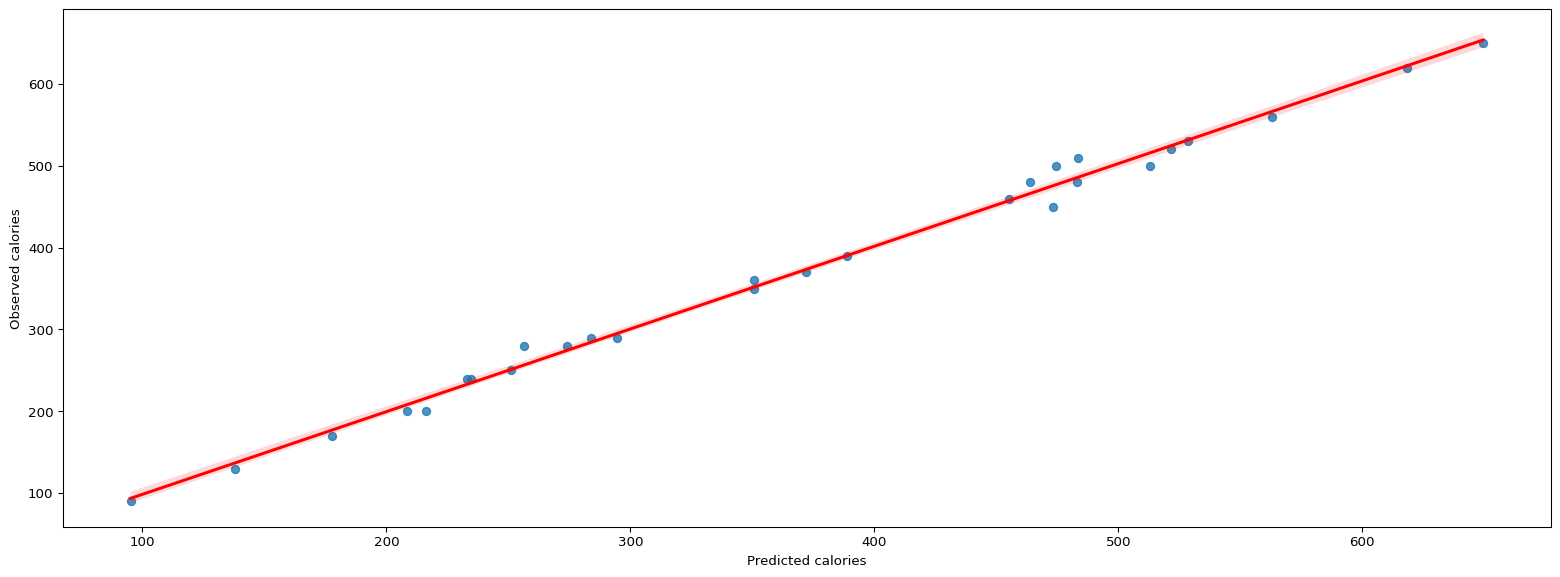
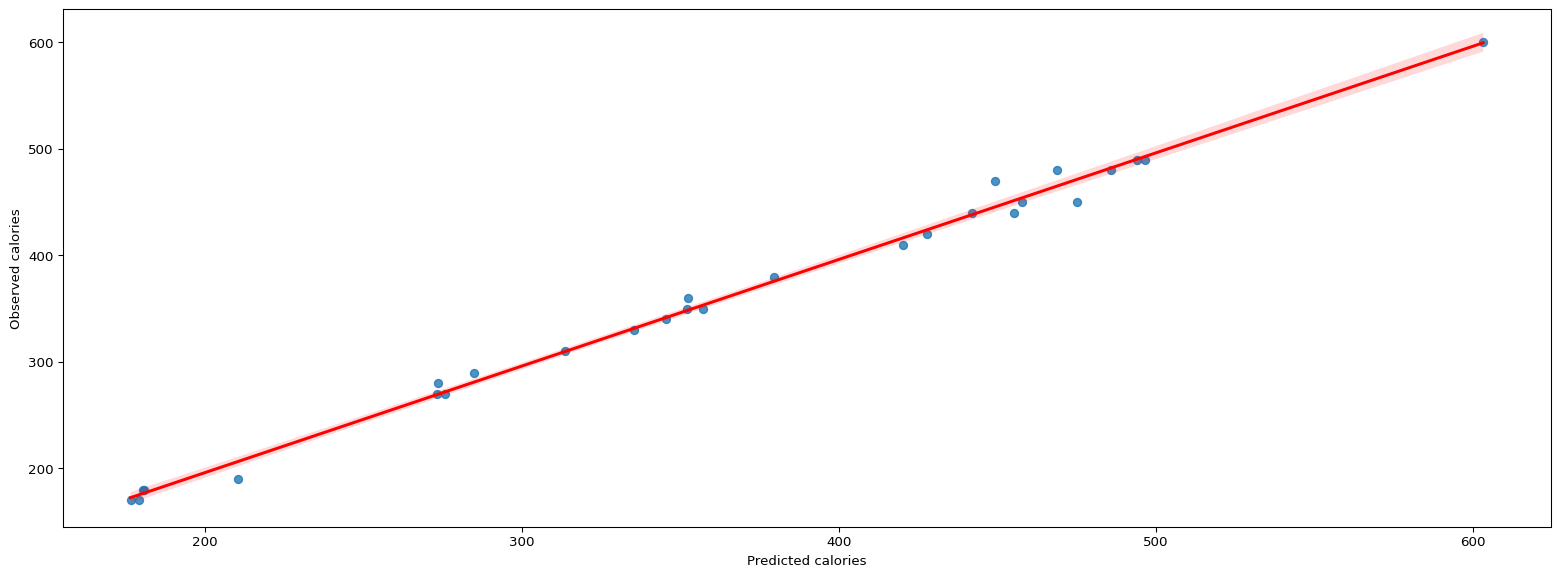
Updates

diff --git a/docs/posts.html b/docs/posts.html
@@ -201,7 +201,7 @@ window.Quarto = {
 <!-- margin-sidebar -->
     <div id="quarto-margin-sidebar" class="sidebar margin-sidebar">
         
-    <h5 class="quarto-listing-category-title">Categories</h5><div class="quarto-listing-category category-default"><div class="category" data-category="">All <span class="quarto-category-count">(9)</span></div><div class="category" data-category="analysis">analysis <span class="quarto-category-count">(6)</span></div><div class="category" data-category="python">python <span class="quarto-category-count">(1)</span></div></div></div>
+    <h5 class="quarto-listing-category-title">Categories</h5><div class="quarto-listing-category category-default"><div class="category" data-category="">All <span class="quarto-category-count">(6)</span></div><div class="category" data-category="R">R <span class="quarto-category-count">(3)</span></div><div class="category" data-category="analysis">analysis <span class="quarto-category-count">(6)</span></div><div class="category" data-category="python">python <span class="quarto-category-count">(1)</span></div></div></div>
 <!-- main -->
 <main class="content column-page-left" id="quarto-document-content">
 
@@ -231,73 +231,7 @@ window.Quarto = {
 
 <div class="quarto-listing quarto-listing-container-default" id="listing-listing">
 <div class="list quarto-listing-default">
-<div class="quarto-post image-right" data-index="0" data-listing-file-modified-sort="1746836361441" data-listing-reading-time-sort="1" data-listing-word-count-sort="52">
-<div class="thumbnail">
-<p><a href="./posts/stpy/index.html" class="no-external"></a></p><a href="./posts/stpy/index.html" class="no-external">
-<p class="card-img-top"><img src="posts\stpy\index_files\figure-html\fig-polar-output-1.png"  class="thumbnail-image card-img"/></p>
-</a><p><a href="./posts/stpy/index.html" class="no-external"></a></p>
-</div>
-<div class="body">
-<h3 class="no-anchor listing-title">
-<a href="./posts/stpy/index.html" class="no-external">matplotlib demo</a>
-</h3>
-<div class="listing-subtitle">
-<a href="./posts/stpy/index.html" class="no-external"></a>
-</div>
-<div class="listing-description">
-<a href="./posts/stpy/index.html" class="no-external">For a demonstration of a line plot on a polar axis, see Figure&nbsp;1.</a>
-</div>
-</div>
-<div class="metadata">
-<p><a href="./posts/stpy/index.html" class="no-external"></a></p><a href="./posts/stpy/index.html" class="no-external">
-</a>
-</div>
-</div>
-<div class="quarto-post image-right" data-index="1" data-listing-file-modified-sort="1746836986684" data-listing-reading-time-sort="1" data-listing-word-count-sort="8">
-<div class="thumbnail">
-<p><a href="./posts/test/index.html" class="no-external"></a></p><a href="./posts/test/index.html" class="no-external">
-<div class="listing-item-img-placeholder card-img-top" >&nbsp;</div>
-</a><p><a href="./posts/test/index.html" class="no-external"></a></p>
-</div>
-<div class="body">
-<h3 class="no-anchor listing-title">
-<a href="./posts/test/index.html" class="no-external">check env</a>
-</h3>
-<div class="listing-subtitle">
-<a href="./posts/test/index.html" class="no-external"></a>
-</div>
-<div class="listing-description">
-<a href="./posts/test/index.html" class="no-external"><code>QUARTO_PYTHON</code> is set to <strong>?env:QUARTO_PYTHON</strong></a>
-</div>
-</div>
-<div class="metadata">
-<p><a href="./posts/test/index.html" class="no-external"></a></p><a href="./posts/test/index.html" class="no-external">
-</a>
-</div>
-</div>
-<div class="quarto-post image-right" data-index="2" data-listing-file-modified-sort="1746836849983" data-listing-reading-time-sort="1" data-listing-word-count-sort="28">
-<div class="thumbnail">
-<p><a href="./posts/test/test.html" class="no-external"></a></p><a href="./posts/test/test.html" class="no-external">
-<p class="card-img-top"><img src="posts\test\test_files\figure-html\unnamed-chunk-1-1.png"  class="thumbnail-image card-img"/></p>
-</a><p><a href="./posts/test/test.html" class="no-external"></a></p>
-</div>
-<div class="body">
-<h3 class="no-anchor listing-title">
-<a href="./posts/test/test.html" class="no-external">Reproducible Quarto Document</a>
-</h3>
-<div class="listing-subtitle">
-<a href="./posts/test/test.html" class="no-external"></a>
-</div>
-<div class="listing-description">
-<a href="./posts/test/test.html" class="no-external">This is a reproducible Quarto document using <code>format: html</code>. It is written in Markdown and contains embedded R code. When you run the code, it will produce a plot.</a>
-</div>
-</div>
-<div class="metadata">
-<p><a href="./posts/test/test.html" class="no-external"></a></p><a href="./posts/test/test.html" class="no-external">
-</a>
-</div>
-</div>
-<div class="quarto-post image-right" data-index="3" data-categories="analysis" data-listing-date-sort="1746075600000" data-listing-file-modified-sort="1746627669414" data-listing-date-modified-sort="NaN" data-listing-reading-time-sort="4" data-listing-word-count-sort="749">
+<div class="quarto-post image-right" data-index="0" data-categories="analysis,R" data-listing-date-sort="1746075600000" data-listing-file-modified-sort="1746840956745" data-listing-date-modified-sort="NaN" data-listing-reading-time-sort="4" data-listing-word-count-sort="748">
 <div class="thumbnail">
 <p><a href="./posts/starbucks_food/index.html" class="no-external"></a></p><a href="./posts/starbucks_food/index.html" class="no-external">
 <p><img loading="lazy" src="./posts/starbucks_food/starbucks_food.jpg" class="thumbnail-image"></p>
@@ -313,6 +247,9 @@ window.Quarto = {
 <div class="listing-categories">
 <div class="listing-category" onclick="window.quartoListingCategory('analysis'); return false;">
 analysis
+</div>
+<div class="listing-category" onclick="window.quartoListingCategory('R'); return false;">
+R
 </div>
 </div>
 <div class="listing-description">
@@ -330,7 +267,7 @@ Aditya Ranade
 </a>
 </div>
 </div>
-<div class="quarto-post image-right" data-index="4" data-categories="analysis,python" data-listing-date-sort="1746075600000" data-listing-file-modified-sort="1746840929689" data-listing-date-modified-sort="NaN" data-listing-reading-time-sort="4" data-listing-word-count-sort="642">
+<div class="quarto-post image-right" data-index="1" data-categories="analysis,python" data-listing-date-sort="1746075600000" data-listing-file-modified-sort="1746841793305" data-listing-date-modified-sort="NaN" data-listing-reading-time-sort="4" data-listing-word-count-sort="642">
 <div class="thumbnail">
 <p><a href="./posts/starbucks_food_python/index.html" class="no-external"></a></p><a href="./posts/starbucks_food_python/index.html" class="no-external">
 <p><img loading="lazy" src="./posts/starbucks_food_python/starbucks_food.jpg" class="thumbnail-image"></p>
@@ -366,7 +303,7 @@ Aditya Ranade
 </a>
 </div>
 </div>
-<div class="quarto-post image-right" data-index="5" data-categories="analysis" data-listing-date-sort="1745384400000" data-listing-file-modified-sort="1746627788596" data-listing-date-modified-sort="NaN" data-listing-reading-time-sort="5" data-listing-word-count-sort="971">
+<div class="quarto-post image-right" data-index="2" data-categories="analysis,R" data-listing-date-sort="1745384400000" data-listing-file-modified-sort="1746840969222" data-listing-date-modified-sort="NaN" data-listing-reading-time-sort="5" data-listing-word-count-sort="971">
 <div class="thumbnail">
 <p><a href="./posts/starbucks/index.html" class="no-external"></a></p><a href="./posts/starbucks/index.html" class="no-external">
 <p><img loading="lazy" src="./posts/starbucks/starbucks_beverages.jpg" class="thumbnail-image"></p>
@@ -382,6 +319,9 @@ Aditya Ranade
 <div class="listing-categories">
 <div class="listing-category" onclick="window.quartoListingCategory('analysis'); return false;">
 analysis
+</div>
+<div class="listing-category" onclick="window.quartoListingCategory('R'); return false;">
+R
 </div>
 </div>
 <div class="listing-description">
@@ -399,7 +339,7 @@ Aditya Ranade
 </a>
 </div>
 </div>
-<div class="quarto-post image-right" data-index="6" data-categories="analysis" data-listing-date-sort="1709272800000" data-listing-file-modified-sort="1738680521205" data-listing-date-modified-sort="NaN" data-listing-reading-time-sort="5" data-listing-word-count-sort="899">
+<div class="quarto-post image-right" data-index="3" data-categories="analysis,R" data-listing-date-sort="1709272800000" data-listing-file-modified-sort="1746840982006" data-listing-date-modified-sort="NaN" data-listing-reading-time-sort="5" data-listing-word-count-sort="899">
 <div class="thumbnail">
 <p><a href="./posts/cherry_blossom_prediction/index.html" class="no-external"></a></p><a href="./posts/cherry_blossom_prediction/index.html" class="no-external">
 <p><img loading="lazy" src="./posts/cherry_blossom_prediction/cherry_blossom.jpg" class="thumbnail-image"></p>
@@ -415,6 +355,9 @@ Aditya Ranade
 <div class="listing-categories">
 <div class="listing-category" onclick="window.quartoListingCategory('analysis'); return false;">
 analysis
+</div>
+<div class="listing-category" onclick="window.quartoListingCategory('R'); return false;">
+R
 </div>
 </div>
 <div class="listing-description">
@@ -432,7 +375,7 @@ Aditya Ranade
 </a>
 </div>
 </div>
-<div class="quarto-post image-right" data-index="7" data-categories="analysis" data-listing-date-sort="1668060000000" data-listing-file-modified-sort="1710368953619" data-listing-date-modified-sort="NaN" data-listing-reading-time-sort="6" data-listing-word-count-sort="1063">
+<div class="quarto-post image-right" data-index="4" data-categories="analysis" data-listing-date-sort="1668060000000" data-listing-file-modified-sort="1710368953619" data-listing-date-modified-sort="NaN" data-listing-reading-time-sort="6" data-listing-word-count-sort="1063">
 <div class="thumbnail">
 <p><a href="./posts/ipl_best_team/index.html" class="no-external"></a></p><a href="./posts/ipl_best_team/index.html" class="no-external">
 <p><img loading="lazy" src="./posts/ipl_best_team/ipl_playoff_structure.png" class="thumbnail-image"></p>
@@ -465,7 +408,7 @@ Aditya Ranade
 </a>
 </div>
 </div>
-<div class="quarto-post image-right" data-index="8" data-categories="analysis" data-listing-date-sort="1667106000000" data-listing-file-modified-sort="1710368970678" data-listing-date-modified-sort="NaN" data-listing-reading-time-sort="6" data-listing-word-count-sort="1148">
+<div class="quarto-post image-right" data-index="5" data-categories="analysis" data-listing-date-sort="1667106000000" data-listing-file-modified-sort="1710368970678" data-listing-date-modified-sort="NaN" data-listing-reading-time-sort="6" data-listing-word-count-sort="1148">
 <div class="thumbnail">
 <p><a href="./posts/fab4/index.html" class="no-external"></a></p><a href="./posts/fab4/index.html" class="no-external">
 <p><img loading="lazy" src="./posts/fab4/table.png" class="thumbnail-image"></p>

diff --git a/docs/posts/starbucks_food_python/index.html b/docs/posts/starbucks_food_python/index.html
@@ -112,7 +112,10 @@ gtag('config', 'G-LC5NNGZ782', { 'anonymize_ip': true});
 </script>
 <script src="https://cdnjs.cloudflare.com/ajax/libs/require.js/2.3.6/require.min.js" integrity="sha512-c3Nl8+7g4LMSTdrm621y7kf9v3SDPnhxLNhcjFJbKECVnmZHTdo+IRO05sNLTH/D3vA6u1X32ehoLC7WFVdheg==" crossorigin="anonymous"></script>
 
+
+
 <script type="application/javascript">define('jquery', [],function() {return window.jQuery;})</script>
+
 
 
 </head>
@@ -241,7 +244,7 @@ gtag('config', 'G-LC5NNGZ782', { 'anonymize_ip': true});
 <span id="cb1-11"><a href="#cb1-11" aria-hidden="true" tabindex="-1"></a><span class="co"># Get starbucks data from github repo</span></span>
 <span id="cb1-12"><a href="#cb1-12" aria-hidden="true" tabindex="-1"></a>df0<span class="op">=</span>pd.read_csv(<span class="st">"https://raw.githubusercontent.com//adityaranade//starbucks//refs//heads//main//data//starbucks-menu-nutrition-food.csv"</span>, encoding<span class="op">=</span><span class="st">'unicode_escape'</span>)</span>
 <span id="cb1-13"><a href="#cb1-13" aria-hidden="true" tabindex="-1"></a>df0.head()</span></code><button title="Copy to Clipboard" class="code-copy-button"><i class="bi"></i></button></pre></div>
-<div id="load-packages" class="cell-output cell-output-display" data-execution_count="31">
+<div id="load-packages" class="cell-output cell-output-display" data-execution_count="91">
 <div>
 
 
@@ -397,7 +400,7 @@ gtag('config', 'G-LC5NNGZ782', { 'anonymize_ip': true});
 <span id="cb7-15"><a href="#cb7-15" aria-hidden="true" tabindex="-1"></a>result <span class="op">=</span> smf.ols(<span class="st">"calories ~ fat + carbs + fiber + protein"</span>, data <span class="op">=</span> data_train).fit()</span>
 <span id="cb7-16"><a href="#cb7-16" aria-hidden="true" tabindex="-1"></a><span class="co"># check the summary</span></span>
 <span id="cb7-17"><a href="#cb7-17" aria-hidden="true" tabindex="-1"></a>result.summary()</span></code><button title="Copy to Clipboard" class="code-copy-button"><i class="bi"></i></button></pre></div>
-<div id="mlr_train" class="cell-output cell-output-display" data-execution_count="38">
+<div id="mlr_train" class="cell-output cell-output-display" data-execution_count="98">
 <table class="simpletable caption-top table table-sm table-striped small" data-quarto-postprocess="true">
 <caption>OLS Regression Results</caption>
 <tbody>
@@ -417,31 +420,31 @@ gtag('config', 'G-LC5NNGZ782', { 'anonymize_ip': true});
 <td data-quarto-table-cell-role="th">Method:</td>
 <td>Least Squares</td>
 <td data-quarto-table-cell-role="th">F-statistic:</td>
-<td>3974.</td>
+<td>4053.</td>
 </tr>
 <tr class="even">
 <td data-quarto-table-cell-role="th">Date:</td>
 <td>Fri, 09 May 2025</td>
 <td data-quarto-table-cell-role="th">Prob (F-statistic):</td>
-<td>3.93e-91</td>
+<td>1.80e-91</td>
 </tr>
 <tr class="odd">
 <td data-quarto-table-cell-role="th">Time:</td>
-<td>20:35:34</td>
+<td>20:50:44</td>
 <td data-quarto-table-cell-role="th">Log-Likelihood:</td>
-<td>-301.23</td>
+<td>-309.14</td>
 </tr>
 <tr class="even">
 <td data-quarto-table-cell-role="th">No. Observations:</td>
 <td>85</td>
 <td data-quarto-table-cell-role="th">AIC:</td>
-<td>612.5</td>
+<td>628.3</td>
 </tr>
 <tr class="odd">
 <td data-quarto-table-cell-role="th">Df Residuals:</td>
 <td>80</td>
 <td data-quarto-table-cell-role="th">BIC:</td>
-<td>624.7</td>
+<td>640.5</td>
 </tr>
 <tr class="even">
 <td data-quarto-table-cell-role="th">Df Model:</td>
@@ -472,48 +475,48 @@ gtag('config', 'G-LC5NNGZ782', { 'anonymize_ip': true});
 </tr>
 <tr class="even">
 <td data-quarto-table-cell-role="th">Intercept</td>
-<td>-0.6800</td>
-<td>3.063</td>
-<td>-0.222</td>
-<td>0.825</td>
-<td>-6.777</td>
-<td>5.417</td>
+<td>-0.5242</td>
+<td>3.200</td>
+<td>-0.164</td>
+<td>0.870</td>
+<td>-6.892</td>
+<td>5.844</td>
 </tr>
 <tr class="odd">
 <td data-quarto-table-cell-role="th">fat</td>
-<td>8.8196</td>
-<td>0.133</td>
-<td>66.543</td>
+<td>8.9372</td>
+<td>0.143</td>
+<td>62.319</td>
 <td>0.000</td>
-<td>8.556</td>
-<td>9.083</td>
+<td>8.652</td>
+<td>9.223</td>
 </tr>
 <tr class="even">
 <td data-quarto-table-cell-role="th">carbs</td>
-<td>4.0238</td>
-<td>0.066</td>
-<td>60.908</td>
+<td>4.0155</td>
+<td>0.075</td>
+<td>53.391</td>
 <td>0.000</td>
-<td>3.892</td>
-<td>4.155</td>
+<td>3.866</td>
+<td>4.165</td>
 </tr>
 <tr class="odd">
 <td data-quarto-table-cell-role="th">fiber</td>
-<td>-1.2627</td>
-<td>0.515</td>
-<td>-2.450</td>
-<td>0.016</td>
-<td>-2.288</td>
-<td>-0.237</td>
+<td>-1.3195</td>
+<td>0.409</td>
+<td>-3.226</td>
+<td>0.002</td>
+<td>-2.133</td>
+<td>-0.506</td>
 </tr>
 <tr class="even">
 <td data-quarto-table-cell-role="th">protein</td>
-<td>4.3099</td>
-<td>0.138</td>
-<td>31.287</td>
+<td>4.2833</td>
+<td>0.147</td>
+<td>29.093</td>
 <td>0.000</td>
-<td>4.036</td>
-<td>4.584</td>
+<td>3.990</td>
+<td>4.576</td>
 </tr>
 </tbody>
 </table>
@@ -523,27 +526,27 @@ gtag('config', 'G-LC5NNGZ782', { 'anonymize_ip': true});
 <tbody>
 <tr class="odd">
 <td data-quarto-table-cell-role="th">Omnibus:</td>
-<td>24.530</td>
+<td>19.219</td>
 <td data-quarto-table-cell-role="th">Durbin-Watson:</td>
-<td>2.204</td>
+<td>1.995</td>
 </tr>
 <tr class="even">
 <td data-quarto-table-cell-role="th">Prob(Omnibus):</td>
 <td>0.000</td>
 <td data-quarto-table-cell-role="th">Jarque-Bera (JB):</td>
-<td>47.282</td>
+<td>25.757</td>
 </tr>
 <tr class="odd">
 <td data-quarto-table-cell-role="th">Skew:</td>
-<td>1.069</td>
+<td>1.031</td>
 <td data-quarto-table-cell-role="th">Prob(JB):</td>
-<td>5.40e-11</td>
+<td>2.55e-06</td>
 </tr>
 <tr class="even">
 <td data-quarto-table-cell-role="th">Kurtosis:</td>
-<td>5.963</td>
+<td>4.737</td>
 <td data-quarto-table-cell-role="th">Cond. No.</td>
-<td>160.</td>
+<td>154.</td>
 </tr>
 </tbody>
 </table>
@@ -575,13 +578,13 @@ gtag('config', 'G-LC5NNGZ782', { 'anonymize_ip': true});
 <div style="text-align: justify">
 <p>The observed vs.&nbsp;predicted looks good. However there is low number of data points and hence we should take this with a grain of salt. Let us check some evaluation metrics like the Root Mean Squared Error (RMSE) and Mean Absolute Error (MAE).</p>
 </div>
-<div id="45ca4ac6" class="cell" data-execution_count="10">
+<div id="1691f66b" class="cell" data-execution_count="10">
 <div class="sourceCode cell-code" id="cb9"><pre class="sourceCode python code-with-copy"><code class="sourceCode python"><span id="cb9-1"><a href="#cb9-1" aria-hidden="true" tabindex="-1"></a><span class="im">from</span> sklearn.metrics <span class="im">import</span> mean_absolute_error,mean_squared_error,r2_score</span>
 <span id="cb9-2"><a href="#cb9-2" aria-hidden="true" tabindex="-1"></a><span class="bu">print</span>(<span class="st">"Mean Absolute Error:"</span>,<span class="bu">round</span>(mean_absolute_error(data_test[<span class="st">"calories"</span>],predictions)))</span>
 <span id="cb9-3"><a href="#cb9-3" aria-hidden="true" tabindex="-1"></a><span class="bu">print</span>(<span class="st">"Root Mean Squared Error:"</span>,<span class="bu">round</span>((mean_squared_error(data_test[<span class="st">"calories"</span>],predictions))<span class="op">**</span> <span class="fl">0.5</span>),<span class="dv">2</span>)</span></code><button title="Copy to Clipboard" class="code-copy-button"><i class="bi"></i></button></pre></div>
 <div class="cell-output cell-output-stdout">
-<pre><code>Mean Absolute Error: 8
-Root Mean Squared Error: 11 2</code></pre>
+<pre><code>Mean Absolute Error: 7
+Root Mean Squared Error: 10 2</code></pre>
 </div>
 </div>
 <div style="text-align: justify">

diff --git a/docs/posts/cherry_blossom_prediction/index.html b/docs/posts/cherry_blossom_prediction/index.html
@@ -142,7 +142,6 @@ window.Quarto = {
 };
 </script>
 
-<link rel="stylesheet" href="../../styles.css">
 </head>
 
 <body class="nav-fixed">
@@ -209,6 +208,7 @@ window.Quarto = {
             <p class="subtitle lead">A time series analysis to forecast 2024 cherry blossom bloom date</p>
                                 <div class="quarto-categories">
                 <div class="quarto-category">analysis</div>
+                <div class="quarto-category">R</div>
               </div>
                   </div>
   </div>

diff --git a/docs/posts/starbucks/index.html b/docs/posts/starbucks/index.html
@@ -178,6 +178,7 @@ gtag('config', 'G-LC5NNGZ782', { 'anonymize_ip': true});
             <p class="subtitle lead">We all like starbucks beverages, but what about the nutritional value of them?</p>
                                 <div class="quarto-categories">
                 <div class="quarto-category">analysis</div>
+                <div class="quarto-category">R</div>
               </div>
                   </div>
   </div>

diff --git a/docs/posts/starbucks_food/index.html b/docs/posts/starbucks_food/index.html
@@ -178,6 +178,7 @@ gtag('config', 'G-LC5NNGZ782', { 'anonymize_ip': true});
             <p class="subtitle lead">We all like starbucks food, but what about the nutritional value of them?</p>
                                 <div class="quarto-categories">
                 <div class="quarto-category">analysis</div>
+                <div class="quarto-category">R</div>
               </div>
                   </div>
   </div>
